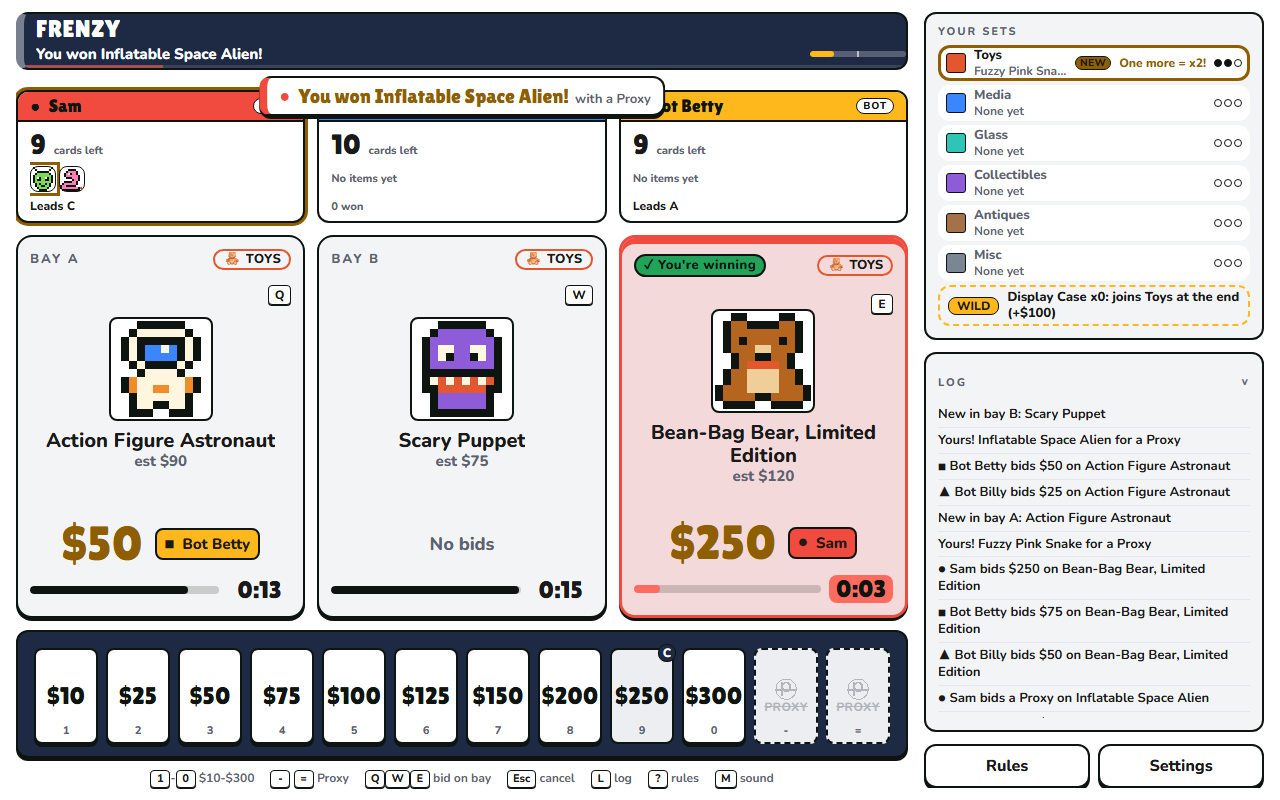
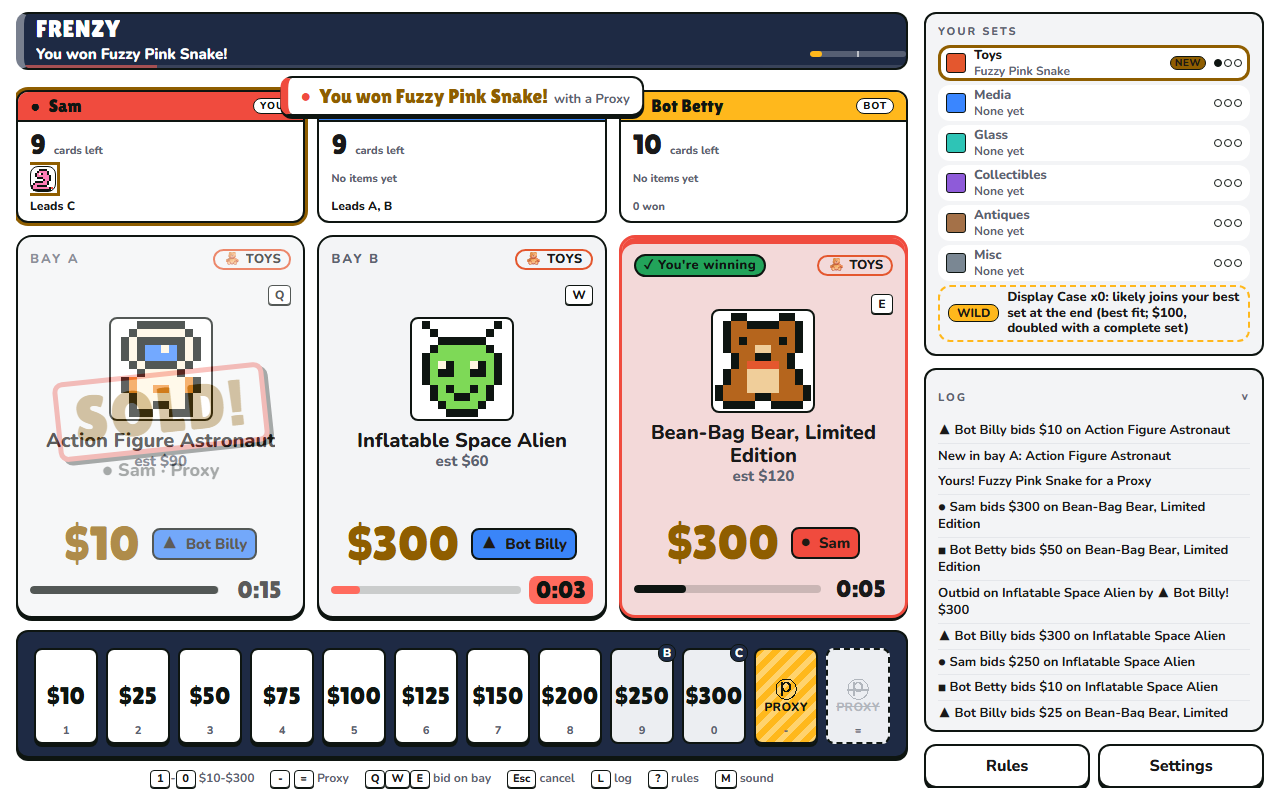
Web: R34-correct wild hint, win line yields to halfway/last round/game over, review fixes

diff --git a/apps/web/lib/game-ui/win.ts b/apps/web/lib/game-ui/win.ts
@@ -6,7 +6,7 @@
 // {item}"). The persistent status line is therefore silenced while it shows the win (`silent`).
 import type { CategoryId, PlayerView } from '@dbay/protocol';
 import { isUrgentEntry } from './announce';
-import { cardInfo, type CollectionSummary } from './viewModel';
+import { cardInfo, categoryShort, type CollectionSummary } from './viewModel';
 
 export const WIN_FX = {
   /** The new row pulses this long (then stays marked NEW, static, until my next action). */
@@ -62,13 +62,40 @@ export function winCleared(view: PlayerView, cue: WinCue): boolean {
  */
 export function winLine(view: PlayerView, cue: WinCue | null, latestN: number | null): string | null {
   if (!cue) return null;
-  if (latestN !== null && latestN > cue.n && isUrgentEntry(view, latestN)) return null;
+  if (latestN !== null && latestN > cue.n) {
+    if (isUrgentEntry(view, latestN)) return null;
+    // Game-wide moments (and the end) must be seen and read politely, not hidden behind my win.
+    const kind = view.log.find((x) => x.n === latestN)?.kind;
+    if (kind === 'halfway' || kind === 'lastRound' || kind === 'gameOver') return null;
+  }
   return cue.text;
 }
 
-/** The set the Display Case(s) will most likely join at the end (R34: best set; ties by category order). */
-export function wildTarget(summary: CollectionSummary): { category: CategoryId; name: string; count: number } | null {
-  let best: CollectionSummary['rows'][number] | null = null;
-  for (const r of summary.rows) if (r.count > 0 && (!best || r.count > best.count)) best = r;
-  return best ? { category: best.category, name: best.name, count: best.count } : null;
+/** What a Display Case will likely join. A hint only: R34 decides at scoring (brute force over the real values). */
+export interface WildHint {
+  categories: CategoryId[];
+  /** "Toys" or "Toys or Media". */
+  name: string;
+  /** Short form for the phone strip: "Toys" or "Toys/Media". */
+  short: string;
+}
+
+/**
+ * R34 picks the assignment that maximizes the total. Joining a set at exactly 2 completes it (the whole
+ * set doubles, docs/01 section 9), which beats joining a set already at 3+ (+100). So: sets at exactly 2
+ * first (several = a hedged list; the values decide and the client does not weigh them), else the
+ * biggest set at 3+, else no hint.
+ */
+export function wildHint(summary: CollectionSummary): WildHint | null {
+  let rows = summary.rows.filter((r) => r.count === 2);
+  if (rows.length === 0) {
+    const max = Math.max(0, ...summary.rows.map((r) => r.count));
+    rows = max >= 3 ? summary.rows.filter((r) => r.count === max) : [];
+  }
+  if (rows.length === 0) return null;
+  return {
+    categories: rows.map((r) => r.category),
+    name: rows.map((r) => r.name).join(' or '),
+    short: rows.map((r) => categoryShort(r.category)).join('/'),
+  };
 }

diff --git a/apps/web/e2e/fx.pw.ts b/apps/web/e2e/fx.pw.ts
@@ -81,6 +81,8 @@ async function winSomething(page: Page) {
     if (/^You won /.test((await text.textContent({ timeout: 2000 })) ?? '')) return;
     const cards = page.locator('[data-fx="hand-card"]:not([aria-disabled="true"])');
     const n = await cards.count();
+    // Never bid while a win cue is showing (my bid would end it before the test looks).
+    if (await page.locator('[data-fx="collection-strip"][data-new="true"]').count()) return;
     if (n > 0) {
       await cards.nth(n - 1 - (i % Math.min(n, 3))).click();
       const bay = page.locator('[data-fx="bay"]').and(page.getByRole('button', { name: /Tap to bid\./ })).first();
@@ -103,15 +105,16 @@ test('win moment: status line and NEW mark outlive the toast; the wild shows in 
   const sets = page.locator('[data-fx="collection-strip"]');
   await expect(msg).toHaveText(/^You won .+!$/);
   await expect(sets).toHaveAttribute('data-new', 'true');
-  await expect(sets.locator('.g-new')).toBeVisible();
+  // A Display Case / Gift win marks the wild/gift pill instead of a set row (no NEW tag there).
+  const marked = sets.locator('.g-sets__item[data-new="true"], .g-wild[data-new="true"]');
+  await expect(marked.first()).toBeVisible();
   // Past the toast (2.8s) and the stamp (2s): the cue is still there, and the strip is not double-read.
   await page.waitForTimeout(3500);
   await expect(msg).toHaveText(/^You won .+!$/);
   await expect(sets).toHaveAttribute('data-new', 'true');
   await expect(page.locator('[data-fx="status-text"] > span[aria-hidden="true"]')).toHaveCount(1);
   // The won item is in the strip, not clipped (it moves to the front).
-  const item = sets.locator('.g-sets__item[data-new="true"]');
-  await expect(item).toBeVisible();
+  const item = marked.first();
   const box = await item.boundingBox();
   const sbox = await sets.boundingBox();
   expect(box!.x + box!.width).toBeLessThanOrEqual(sbox!.x + sbox!.width);
@@ -131,7 +134,6 @@ test('win moment on desktop: Your sets row and my podium are marked; reduced mot
   await startFrenzy(page);
   await winSomething(page);
   await expect(page.locator('.g-side .g-crow[data-new="true"], .g-side .g-crow--wild[data-new="true"]').first()).toBeVisible();
-  await expect(page.locator('.g-side .g-new').first()).toBeVisible();
   await expect(page.locator('[data-fx="podium"][data-me][data-fresh="true"]')).toBeVisible();
   const anim = await page.locator('[data-fx="podium"][data-fresh="true"]').evaluate((el) => getComputedStyle(el).animationName);
   expect(anim).toBe('none');

diff --git a/apps/web/components/game/Collections.tsx b/apps/web/components/game/Collections.tsx
@@ -2,7 +2,7 @@
 // My collections: the 44px SETS strip (04 section 12) and the detail view used by the
 // "Your collections" sheet and the desktop sidebar.
 import { categoryName, type CollectionSummary, CATEGORY_ORDER, categoryShort } from '../../lib/game-ui/viewModel';
-import { wildTarget, type WinCue } from '../../lib/game-ui/win';
+import { wildHint, type WinCue } from '../../lib/game-ui/win';
 
 /** Win-moment cue props (win.ts): the item I just won stays marked NEW until my next action. */
 export interface WinMark {
@@ -35,11 +35,11 @@ export function CollectionStrip({
   // "3 = x2" stays visible from the first item on (first-game tips, 04 section 4.8).
   const rule = '3 of a kind scores x2.';
   // P7: the wild stays visible (pinned before the sets so a long list can't clip it) and names the set it joins.
-  const target = wildTarget(summary);
-  const wildText = `WILD${summary.displayCases > 1 ? ` x${summary.displayCases}` : ''}${target ? ` → ${categoryShort(target.category)}` : ''}`;
+  const target = wildHint(summary);
+  const wildText = `WILD${summary.displayCases > 1 ? ` x${summary.displayCases}` : ''}${target ? ` → ${target.short}?` : ''}`;
   const newNote = win ? ` New: ${win.name}.` : '';
   return (
-    <button type="button" className="g-sets" data-fx="collection-strip" aria-label={`${label}${summary.displayCases > 0 ? ` Display Case ${summary.displayCases}, joins ${target ? target.name : 'your best set'} at the end.` : ''}${newNote} ${rule} Tap for details.`}
+    <button type="button" className="g-sets" data-fx="collection-strip" aria-label={`${label}${summary.displayCases > 0 ? ` Display Case ${summary.displayCases}, likely joins ${target ? target.name : 'your best set'} at the end.` : ''}${newNote} ${rule} Tap for details.`}
       data-new={win ? 'true' : undefined}
       data-pulse={win && pulse ? 'true' : undefined} onClick={onOpen}>
       <span className="g-sets__title">SETS</span>
@@ -113,7 +113,7 @@ export function CollectionsView({ summary, win = null, pulse = false }: { summar
       >
         <span className="g-wild">WILD</span>
         <span className="g-crow__name">
-          Display Case x{summary.displayCases}: joins {wildTarget(summary)?.name ?? 'your best set'} at the end (+$100)
+          Display Case x{summary.displayCases}: likely joins {wildHint(summary)?.name ?? 'your best set'} at the end (best fit; $100, doubled with a complete set)
         </span>
       </div>
       {summary.gifts > 0 && (

diff --git a/apps/web/lib/game-ui/win.test.ts b/apps/web/lib/game-ui/win.test.ts
@@ -1,6 +1,6 @@
 import { describe, expect, it } from 'vitest';
 import type { PlayerView } from '@dbay/protocol';
-import { newWin, winCleared, winLine, wildTarget } from './win';
+import { newWin, winCleared, winLine, wildHint } from './win';
 import { summarizeCollection } from './viewModel';
 
 type Entry = PlayerView['log'][number];
@@ -74,11 +74,34 @@ describe('winLine', () => {
   });
 });
 
-describe('wildTarget', () => {
-  it('names the best set, ties by category order; null with no items', () => {
-    expect(wildTarget(summarizeCollection([]))).toBeNull();
-    const s = summarizeCollection(['media-violin', 'toys-pink-snake', 'toys-bean-bag-bear']);
-    expect(wildTarget(s)).toMatchObject({ category: 'toys', count: 2 });
-    expect(wildTarget(summarizeCollection(['media-violin', 'toys-pink-snake']))?.category).toBe('toys');
+describe('winLine yields to game-wide moments', () => {
+  const cue = newWin(view([won]), 4).win!;
+  it('halfway, last round and game over replace it (so they are shown and read politely)', () => {
+    for (const kind of ['halfway', 'lastRound', 'gameOver'] as const) {
+      const v = view([won, e({ n: 6, kind })]);
+      expect(winLine(v, cue, 6)).toBeNull();
+    }
+  });
+});
+
+describe('wildHint (R34 hint)', () => {
+  const sum = (ids: string[]) => summarizeCollection(ids);
+  const toys3 = ['toys-pink-snake', 'toys-bean-bag-bear', 'toys-inflatable-alien'];
+  it('docs/01 section 9: toys x3 + glass x2 -> Glass (completing a pair beats a set at 3)', () => {
+    const h = wildHint(sum([...toys3, 'glass-cookie-jar', 'glass-crystal-decanter']));
+    expect(h?.categories).toEqual(['glass']);
+    expect(h?.name).toBe('Glass');
+  });
+  it('several sets at exactly 2: hedged list in category order', () => {
+    const h = wildHint(sum(['toys-pink-snake', 'toys-bean-bag-bear', 'media-violin', 'media-brass-tuba']));
+    expect(h?.categories).toEqual(['toys', 'media']);
+    expect(h?.name).toBe('Toys or Media');
+  });
+  it('no set at 2: the biggest set at 3+; ties listed', () => {
+    expect(wildHint(sum(toys3))?.categories).toEqual(['toys']);
+  });
+  it('nothing worth naming: no items, or only singles', () => {
+    expect(wildHint(sum([]))).toBeNull();
+    expect(wildHint(sum(['toys-pink-snake', 'glass-cookie-jar']))).toBeNull();
   });
 });

diff --git a/apps/web/lib/game-ui/hooks.ts b/apps/web/lib/game-ui/hooks.ts
@@ -1,6 +1,6 @@
 'use client';
 // Small React hooks for the game screen. Time always comes from the room's server-clock estimate.
-import { useCallback, useEffect, useRef, useState } from 'react';
+import { useEffect, useRef, useState } from 'react';
 import type { PlayerView } from '@dbay/protocol';
 import { combineAnnouncements, newAnnouncements } from './announce';
 import { SALE_FX } from './sale';
@@ -143,9 +143,9 @@ export function useAnnouncer(
 
 /**
  * The lasting cue for my newest win (win.ts): `cue` stays until I act (or my turn comes round) or win
- * again; `pulse` is true for the first WIN_FX.pulseMs. `dismiss` also ends it (opening my sets).
+ * again; `pulse` is true for the first WIN_FX.pulseMs.
  */
-export function useWinCue(view: PlayerView | null): { cue: WinCue | null; pulse: boolean; dismiss: () => void } {
+export function useWinCue(view: PlayerView | null): { cue: WinCue | null; pulse: boolean } {
   const lastN = useRef<number | null>(null);
   const [cue, setCue] = useState<WinCue | null>(null);
   const [pulse, setPulse] = useState(false);
@@ -153,9 +153,13 @@ export function useWinCue(view: PlayerView | null): { cue: WinCue | null; pulse:
     if (!view) return;
     const r = newWin(view, lastN.current);
     lastN.current = r.lastN;
-    if (r.win) {
+    if (r.win && !winCleared(view, r.win)) {
       setCue(r.win);
       setPulse(true);
+      return;
+    }
+    if (r.win) {
+      setCue(null); // my own bid/pass/turn already follows the win in this snapshot
       return;
     }
     setCue((c) => (c && winCleared(view, c) ? null : c));
@@ -165,9 +169,5 @@ export function useWinCue(view: PlayerView | null): { cue: WinCue | null; pulse:
     const id = setTimeout(() => setPulse(false), WIN_FX.pulseMs);
     return () => clearTimeout(id);
   }, [pulse, cue?.n]);
-  const dismiss = useCallback(() => {
-    setCue(null);
-    setPulse(false);
-  }, []);
-  return { cue: cue, pulse: pulse && cue !== null, dismiss };
+  return { cue, pulse: pulse && cue !== null };
 }

diff --git a/docs/04-ux-and-ui.md b/docs/04-ux-and-ui.md
@@ -194,7 +194,7 @@ Both are under the 780px ceiling; the leftover (84px / 140px) is slack for the i
 - **Per-bay timer (Frenzy only)**: bar plus mm:ss text; the clock is a 20px display number, and only in the last 3s it turns into a `--danger` chip with a tick pulse (no pulse under reduced motion); "+3s" floats on extension. In Classic the bay has no timer; the shared clock is in the merged HUD (4.6).
 - **Winning state:** a bay you top is strong, not faded: 3px border in your player color, a tint of that color, a 6px top stripe, a green "✓ You're winning" pill (text + check, so it is not color-only) and a larger price. Faded (45%) plus stripes is only for illegal bays; empty bays are dashed.
 - **SOLD stamp**: a "SOLD!" rubber-stamp slab (tilted -6deg inside a full-bay overlay, 5px border in the winner's color, hard offset shadow; brass text when sold to you) with the winner's shape, name and price underneath. 56px on rows and 30-40px on tiles; from 600px wide 64px rows and 48px tiles. Stays 2.0s (`SALE_FX.stampHoldMs` in `lib/game-ui/sale.ts`), then the refilled bay shows. Reduced motion: stamp fades in (150ms) without the slam; the hold is the same.
-- **Lasting win cue** (playtest 11-02 P1; `lib/game-ui/win.ts`): the stamp and toast vanish in 2-3s, so a win to me also leaves (1) the status line "You won {item}!", kept ahead of "Going once..." until my next action (my next bid, pass, skip or my turn) or something urgent for me (an outbid) replaces it, and (2) the item marked NEW where I look: the SETS strip row (moved to the front so overflow never clips it, gold ring, NEW tag), the Your sets row on desktop (NEW tag, gold ring) and my podium (gold ring on the sprite). The new row pulses ~4.5s, then stays static; reduced motion: no pulse, same marks. Haptic: the existing `soldMine` pattern (Android). Screen readers: unchanged, one assertive "Sold to you: {item}"; the persistent line is silenced (no double read).
+- **Lasting win cue** (playtest 11-02 P1; `lib/game-ui/win.ts`): the stamp and toast vanish in 2-3s, so a win to me also leaves (1) the status line "You won {item}!", kept ahead of "Going once..." until my next action (my next bid, pass, skip or my turn), or until something urgent for me (an outbid) or a game-wide line (Halfway, Last round, game over; these are read politely again) replaces it, and (2) the item marked NEW where I look: the SETS strip row (moved to the front so overflow never clips it, gold ring, NEW tag), the Your sets row on desktop (NEW tag, gold ring) and my podium (gold ring on the sprite). The new row pulses ~4.5s, then stays static; reduced motion: no pulse, same marks. Haptic: the existing `soldMine` pattern (Android). Screen readers: unchanged, one assertive "Sold to you: {item}"; the persistent line is silenced (no double read).
 - **Legal/illegal** (when a card is selected): legal = `--ok` 3px glow border + "tap to bid"; illegal = 45% opacity plus diagonal-stripe pattern and a small reason label ("Beat $150"). Never color alone.
 - Long-press (400ms): item details sheet (name, category, est, flavor text).
 
@@ -209,7 +209,7 @@ Both are under the 780px ceiling; the leftover (84px / 140px) is slack for the i
 - **Special cards are not in the hand.** Display Case and Gift are won items (01 R25-R27), never bid cards. Won specials show as tokens in the collection strip (4.4); the hand is always exactly the 12 bid cards.
 
 ### 4.4 Collection strip (40px)
-Horizontal row of mini item tokens (24px category glyph chips, grouped by category with a count badge), then special tokens: Display Case "$100 wild" and Gift (pending until resolved). Shows my items only here; overflow scrolls horizontally inside the strip, not the page. Tap opens ⋯ -> "Collections" tab. A collection reaching 3 gets a gold underline ("x2"). The wild is pinned before the sets: "WILD → Toys" ("WILD x2 → Toys") when I hold a Display Case, naming the set it will most likely join at the end (my biggest set; R34 decides for real); nothing when I hold none (no room on a phone).
+Horizontal row of mini item tokens (24px category glyph chips, grouped by category with a count badge), then special tokens: Display Case "$100 wild" and Gift (pending until resolved). Shows my items only here; overflow scrolls horizontally inside the strip, not the page. Tap opens ⋯ -> "Collections" tab. A collection reaching 3 gets a gold underline ("x2"). The wild is pinned before the sets as a hint: "WILD → Glass?" (several candidates: "Toys/Media?"), naming the set it will likely join. R34 completes a pair rather than topping up a set already at 3 (01 section 9), so a set at exactly 2 wins, else the biggest set at 3+, else no hint; scoring decides for real. Nothing is shown when I hold no Display Case (no room on a phone).
 
 ### 4.5 Status strip (44px, `aria-live="polite"`)
 Left: event text (one line, ellipsis, crossfade 150ms). Middle: round pips (ASSUMED: Classic shows a progress bar rather than "Round X of Y", since rounds reach about 50; the R9 "Halfway" and "Last round" announcements stay unchanged; "Round {n}/{of}" plus a mini progress bar; `of` from the view, 01 section 8 / 02 F7). The server sends structured log entries; this table is the only text source. Right: ⋯ button (44x44). Tap the text area to open the event log (last 30 events). Exact strings (use `{name}`/`{amount}`/`{item}`; names include shape glyph in UI):

diff --git a/docs/progress/win-moment.md b/docs/progress/win-moment.md
@@ -6,14 +6,19 @@ Source: [2026-11-02 AI playtest](../playtests/2026-11-02-ai/README.md).
 - `feat/win-moment`, off `origin/main` @ `2db9cd1`. Web only; no rule, protocol or engine changes. Avoids Hand components, `legal.ts` (imports `bayLegality` only) and the GameScreen key handler.
 
 ## Done
-- **P1 lasting win cue.** `lib/game-ui/win.ts` (+ `win.test.ts`): `newWin` (my newest sale after a baseline, so reconnects show no history cue), `winCleared` (my next bid/pass/autoPass/turn), `winLine`, `wildTarget`. `useWinCue` hook in `hooks.ts`. Marks: SETS strip row (front, gold ring, NEW), Your sets row (NEW, ring) in `DesktopRail`/`MySets`, my podium sprite (`freshId`), `game.css` "win moment" block (pulse only under `prefers-reduced-motion: no-preference`). Status line shows "You won {item}!" until my next action; GameScreen edits are small (hook, `winText` in `stripText`, `silent`, three props).
-- **P7** wild pinned in the SETS strip before the sets ("WILD x2 -> Toys"), also in its aria-label; the sheet / rail row now says which set it joins.
+- **P1 lasting win cue.** `lib/game-ui/win.ts` (+ `win.test.ts`): `newWin` (my newest sale after a baseline, so reconnects show no history cue), `winCleared` (my next bid/pass/autoPass/turn), `winLine`, `wildHint`. `useWinCue` hook in `hooks.ts`. Marks: SETS strip row (front, gold ring, NEW), Your sets row (NEW, ring) in `DesktopRail`/`MySets`, my podium sprite (`freshId`), `game.css` "win moment" block (pulse only under `prefers-reduced-motion: no-preference`). Status line shows "You won {item}!" until my next action; GameScreen edits are small (hook, `winText` in `stripText`, `silent`, three props).
+- **P7** wild pinned in the SETS strip before the sets ("WILD -> Glass?", a hedged hint following R34: set at exactly 2 first), also in its aria-label; the sheet / rail row now says which set it joins.
 - **P9** Gift tip: fires only when `canAct` and a card in hand (not already on a bay) is legal on a bay holding a Gift, or I hold/won a Gift. `tips.test.ts` updated.
 - e2e (`fx.pw.ts`): mobile win cue persists past the toast, not clipped, ends on my next bid; desktop rail/podium marks with reduced motion (animation none). Screenshots: `docs/mockups/win-moment/win-390.png`, `win-1280.png` (set `WIN_SHOTS=<dir>`).
 - docs/04: sale-moment bullet, SETS strip (4.4), tips table.
 
 ## In progress
 - Nothing.
+
+## Review round 1 (2 blockers fixed)
+- R34 hint: `wildHint` prefers a set at exactly 2 (several = "Toys or Media"), else the biggest set at 3+, else none; wording "likely joins"; sheet row no longer says +$100 flat. Tests include the 01 section 9 example (toys x3 + glass x2 -> Glass).
+- `winLine` yields to halfway / lastRound / gameOver, so they show and are read politely; `silent` only covers the win line itself.
+- Non-blocking: `useWinCue` applies `winCleared` before setting the cue; unused `dismiss` and stale comment removed; e2e helper never bids while a cue shows and accepts Display Case / Gift wins.
 
 ## Next
 - Pre-PR review; un-draft after CI.
@@ -23,6 +28,6 @@ Source: [2026-11-02 AI playtest](../playtests/2026-11-02-ai/README.md).
 - Haptic: the existing `soldMine` pattern in `lib/fx/haptics.ts` already fires on my win (Android only); nothing added.
 - Screen readers: untouched. Strip is `silent` while it shows the win, announce.ts reads "Sold to you: {item}" once.
 - Opening the sets sheet does not clear the cue (it shows NEW inside); only acting does.
-- The wild pill is hidden when I hold no Display Case (no room at 390px).
+- The wild pill is hidden when I hold no Display Case (no room at 390px). With several sets at 2 the hint lists them rather than weighing estimates.
 - No deterministic Gift in the mock, so the Gift tip timing is covered by unit tests only.
 - e2e wins are random against bots: the helper polls every 100ms because my own next bid ends the cue.
